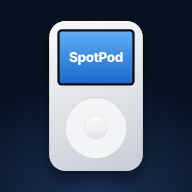
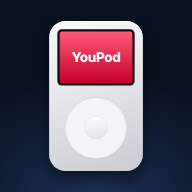
Rename SpotPod to YouPod
Claude-Session: https://claude.ai/code/session_01Q3XB6jUfvSdwdJwMcGZR9M

Changed region(s): [[0.2812, 0.1562, 0.7188, 0.4375]]

diff --git a/index.html b/index.html
@@ -3,13 +3,13 @@
 <head>
 <meta charset="utf-8">
 <meta name="viewport" content="width=device-width, initial-scale=1, viewport-fit=cover">
-<title>SpotPod</title>
-<meta name="description" content="SpotPod: a click-wheel music player for YouTube music.">
+<title>YouPod</title>
+<meta name="description" content="YouPod: a click-wheel music player for YouTube music.">
 <meta name="theme-color" content="#0a1120">
 <meta name="mobile-web-app-capable" content="yes">
 <meta name="apple-mobile-web-app-capable" content="yes">
 <meta name="apple-mobile-web-app-status-bar-style" content="black-translucent">
-<meta name="apple-mobile-web-app-title" content="SpotPod">
+<meta name="apple-mobile-web-app-title" content="YouPod">
 <link rel="manifest" href="manifest.json">
 <link rel="icon" href="icon-192.png" type="image/png">
 <link rel="apple-touch-icon" href="apple-touch-icon.png">
@@ -49,7 +49,7 @@ body {
   place-items: center;
   overflow-x: hidden;
 }
-/* phones: one column. desktops: the SpotPod on the left, its tools on the right */
+/* phones: one column. desktops: the YouPod on the left, its tools on the right */
 .stage { display: flex; flex-direction: column; align-items: center; gap: 18px; position: relative; width: 100%; max-width: 62rem; }
 .side { display: flex; flex-direction: column; align-items: center; gap: 18px; width: 100%; position: relative; z-index: 1; }
 @media (min-width: 860px) and (min-height: 520px) {
@@ -532,7 +532,7 @@ kbd {
 <body>
 <main class="stage" id="stage">
   <div class="glow-layer" aria-hidden="true"><div class="glow" id="glow"></div></div>
-  <h1 class="title">SpotPod <span>· YouTube music, click-wheel style</span></h1>
+  <h1 class="title">YouPod <span>· YouTube music, click-wheel style</span></h1>
 
   <div class="ipod-wrap" id="wrap">
     <div class="ipod" id="ipod" data-body="silver" data-wheel="match">
@@ -540,7 +540,7 @@ kbd {
         <div class="screen" id="screen" aria-live="polite" data-theme="classic" data-hi="blue" data-text="normal">
           <div class="hdr">
             <span class="hdr-state" id="hdrState"></span>
-            <span class="hdr-title" id="hdrTitle">SpotPod</span>
+            <span class="hdr-title" id="hdrTitle">YouPod</span>
             <span class="bat" id="bat"><span id="batPct">100%</span><span class="battery" id="battery"><i id="batFill"></i></span></span>
           </div>
           <div class="view" id="view"></div>
@@ -584,7 +584,7 @@ kbd {
   <section class="panel setup" id="setupPanel" hidden aria-label="Set up YouTube search">
     <b>Set up YouTube search (owner only, one time)</b>
     <ol>
-      <li>Go to <a href="https://console.cloud.google.com/" target="_blank" rel="noopener">console.cloud.google.com</a>, log in with Google and make a new project called <b>SpotPod</b>.</li>
+      <li>Go to <a href="https://console.cloud.google.com/" target="_blank" rel="noopener">console.cloud.google.com</a>, log in with Google and make a new project called <b>YouPod</b>.</li>
       <li>Open <b>APIs &amp; Services → Library</b>, find <b>YouTube Data API v3</b> and click <b>Enable</b>.</li>
       <li>Open <b>APIs &amp; Services → Credentials → Create credentials → API key</b>.</li>
       <li>Click the new key to edit it. Under <b>Application restrictions</b> pick <b>Websites</b> and add <code id="keySite"></code> <button type="button" class="ghost" id="copySite">Copy</button>. Under <b>API restrictions</b> pick <b>YouTube Data API v3</b>. Click <b>Save</b>.</li>
@@ -625,7 +625,7 @@ kbd {
 
   <footer class="credits">
     <p class="made">Created by <em>Aaron</em></p>
-    <p>Music plays through YouTube. YouTube is a trademark of Google LLC. SpotPod isn't made by YouTube, Google or Apple.</p>
+    <p>Music plays through YouTube. YouTube is a trademark of Google LLC. YouPod isn't made by YouTube, Google or Apple.</p>
     <p class="legal"><a href="terms.html">Terms &amp; Privacy</a> · <a href="https://www.youtube.com/t/terms" target="_blank" rel="noopener">YouTube Terms of Service</a> · <a href="https://policies.google.com/privacy" target="_blank" rel="noopener">Google Privacy Policy</a></p>
   </footer>
   </div>
@@ -633,11 +633,11 @@ kbd {
 
 <div class="consent" id="consent" hidden role="dialog" aria-modal="true" aria-labelledby="consentTitle">
   <div class="consent-card">
-    <h2 id="consentTitle">Welcome to SpotPod</h2>
-    <p>SpotPod is a free music player that plays music from <b>YouTube</b>.</p>
+    <h2 id="consentTitle">Welcome to YouPod</h2>
+    <p>YouPod is a free music player that plays music from <b>YouTube</b>.</p>
     <ul>
-      <li>By using SpotPod, you agree to the <a href="https://www.youtube.com/t/terms" target="_blank" rel="noopener">YouTube Terms of Service</a> and to SpotPod's <a href="terms.html" target="_blank" rel="noopener">Terms &amp; Privacy</a>.</li>
-      <li>SpotPod uses YouTube API Services, so the <a href="https://policies.google.com/privacy" target="_blank" rel="noopener">Google Privacy Policy</a> applies too.</li>
+      <li>By using YouPod, you agree to the <a href="https://www.youtube.com/t/terms" target="_blank" rel="noopener">YouTube Terms of Service</a> and to YouPod's <a href="terms.html" target="_blank" rel="noopener">Terms &amp; Privacy</a>.</li>
+      <li>YouPod uses YouTube API Services, so the <a href="https://policies.google.com/privacy" target="_blank" rel="noopener">Google Privacy Policy</a> applies too.</li>
       <li>Your playlists and settings stay in this browser only. YouTube's player may use cookies.</li>
     </ul>
     <button type="button" id="agree">I agree</button>
@@ -686,14 +686,14 @@ function store(key, value) {
    YOUTUBE MUSIC
    Songs play through YouTube's official player. YouTube's rules say the
    video must stay visible (at least 200 × 200 pixels), so it plays on a
-   "TV" next to the SpotPod and the SpotPod is the remote. Search and the
-   Browse charts use the YouTube Data API with SpotPod's API key.
+   "TV" next to the YouPod and the YouPod is the remote. Search and the
+   Browse charts use the YouTube Data API with YouPod's API key.
    ========================================================= */
 const IN_CLAUDE = !!(window.claude && typeof window.claude.use === "function");
 const CAN_PLAY = !IN_CLAUDE;   // claude.ai can't show other websites' players
 const YT_API_KEY = "AIzaSyBCTgmucw9UWVLcB6qGLEYpmq1Zhag9aLg";          // from console.cloud.google.com, locked to this website
 const ytKey = () => YT_API_KEY || String(load("spotpod-yt-key", "") || "");
-// the key only works from SpotPod's own pages, so tell Google the full page address
+// the key only works from YouPod's own pages, so tell Google the full page address
 const YT_FETCH = { referrerPolicy: "no-referrer-when-downgrade" };
 
 // YouTube titles arrive with HTML codes like &amp; – turn them back into text
@@ -729,7 +729,7 @@ function addToPlaylist(i, item) {
   toast(`Added to ${pl.name}`);
 }
 
-// what you've played on SpotPod (For You learns from this)
+// what you've played on YouPod (For You learns from this)
 let history = (Array.isArray(load("spotpod-history", [])) ? load("spotpod-history", []) : []).map(cleanItem).filter(Boolean).slice(0, 60);
 function remember(item) {
   history = [item, ...history.filter(x => x.uri !== item.uri)].slice(0, 60);
@@ -740,8 +740,8 @@ function remember(item) {
    Every search uses part of the key's daily allowance (about 100 searches a
    day for everyone together), so results are saved for 12 hours. */
 async function ytSearch(q, max = 25) {
-  if (!CAN_PLAY) throw { message: "Search works on the SpotPod website, not inside claude.ai." };
-  if (!ytKey()) throw { message: "Search isn't set up yet. SpotPod's owner needs to add a YouTube key in Settings → YouTube Setup." };
+  if (!CAN_PLAY) throw { message: "Search works on the YouPod website, not inside claude.ai." };
+  if (!ytKey()) throw { message: "Search isn't set up yet. YouPod's owner needs to add a YouTube key in Settings → YouTube Setup." };
   const cache = load("spotpod-cache", {}) || {};
   const c = cache[q];
   if (c && Date.now() - c.t < 12 * 3600000 && Array.isArray(c.items)) return c.items.map(cleanItem).filter(Boolean);
@@ -751,7 +751,7 @@ async function ytSearch(q, max = 25) {
   const j = await r.json().catch(() => ({}));
   if (!r.ok) {
     const reason = j.error && j.error.errors && j.error.errors[0] && j.error.errors[0].reason;
-    if (reason === "quotaExceeded" || reason === "dailyLimitExceeded") throw { message: "SpotPod has used up today's YouTube searches. They come back tomorrow." };
+    if (reason === "quotaExceeded" || reason === "dailyLimitExceeded") throw { message: "YouPod has used up today's YouTube searches. They come back tomorrow." };
     if (reason === "keyInvalid" || r.status === 400) throw { message: "The YouTube key isn't working. Check it in Settings → YouTube Setup." };
     if (r.status === 403) throw { message: "YouTube said no (" + (reason || "403") + "). Check the key's website settings." };
     throw { message: "YouTube didn't answer (error " + r.status + ")." };
@@ -777,9 +777,9 @@ const BROWSE = [
 ];
 
 const shuffled = a => { a = a.slice(); for (let i = a.length - 1; i > 0; i--) { const j = Math.floor(Math.random() * (i + 1)); [a[i], a[j]] = [a[j], a[i]]; } return a; };
-// For You: new songs from the artists you play most on SpotPod
+// For You: new songs from the artists you play most on YouPod
 async function mixForYou() {
-  if (!history.length) throw { message: "Play some songs first, so SpotPod can learn what you like." };
+  if (!history.length) throw { message: "Play some songs first, so YouPod can learn what you like." };
   const score = {};
   history.forEach((h, i) => { if (h.by) score[h.by] = (score[h.by] || 0) + (60 - i); });
   const artists = Object.keys(score).sort((a, b) => score[b] - score[a]).slice(0, 3);
@@ -952,7 +952,7 @@ async function refreshSaved() {
 }
 setInterval(refreshSaved, 6 * 3600000);
 
-// Settings → Delete My Data: wipes everything SpotPod saved in this browser
+// Settings → Delete My Data: wipes everything YouPod saved in this browser
 const SAVED_KEYS = ["tackle-ipod", "tackle-ipod-playlists", "tackle-ipod-battery", "tackle-ipod-links", "tackle-ipod-saveto",
   "spotpod-history", "spotpod-cache", "spotpod-agreed", "spotpod-yt-key", "ibpod-spotify", "ibpod-client-id", "ibpod-pkce"];
 function deleteMyData() {
@@ -960,7 +960,7 @@ function deleteMyData() {
   SAVED_KEYS.forEach(k => { try { localStorage.removeItem(k); } catch (e) {} });
   location.reload();
 }
-// SpotPod no longer uses Spotify: remove anything the old version saved
+// YouPod no longer uses Spotify: remove anything the old version saved
 ["ibpod-spotify", "ibpod-client-id", "ibpod-pkce", "tackle-ipod-links", "tackle-ipod-saveto"].forEach(k => { try { localStorage.removeItem(k); } catch (e) {} });
 
 // the first-visit "I agree" box
@@ -974,7 +974,7 @@ $("#agree").addEventListener("click", () => {
   $("#wheel").focus();
 });
 
-/* setup box: SpotPod's YouTube key */
+/* setup box: YouPod's YouTube key */
 $("#keySite").textContent = location.origin + "/*";
 $("#copySite").addEventListener("click", () => {
   navigator.clipboard.writeText(location.origin + "/*").then(() => toast("Copied"), () => {
@@ -1197,7 +1197,7 @@ function render() {
   const v = view();
   const pl = curPl();
   $("#hdrTitle").textContent = {
-    menu: "SpotPod", now: "Now Playing", pls: "Playlists", pl: pl ? pl.name : "Playlist", browse: "Browse YouTube",
+    menu: "YouPod", now: "Now Playing", pls: "Playlists", pl: pl ? pl.name : "Playlist", browse: "Browse YouTube",
     list: NAV.list ? NAV.list.label : "Music", addto: "Add to Playlist", help: "Controls",
     settings: "Settings", ytsetup: "YouTube Setup", foryou: "For You", nowmenu: "Song", find: "Search YouTube", choice: OPTION_TITLES[NAV.choice] || "Settings", about: "About", reset: "Reset Settings", wipe: "Delete My Data",
   }[v];
@@ -1222,7 +1222,7 @@ function render() {
   } else if (v === "now") {
     const it = PLY.current, q = PLY.queue;
     if (!it) html = msgHTML("Nothing playing yet", "Pick something from Search, Browse or your Playlists.");
-    else if (!CAN_PLAY) html = msgHTML("Open the SpotPod website", "Music plays on isgoodtf2.github.io/IBPOD, not inside claude.ai.");
+    else if (!CAN_PLAY) html = msgHTML("Open the YouPod website", "Music plays on isgoodtf2.github.io/IBPOD, not inside claude.ai.");
     else html = `<div class="np">
       <div class="np-count">${q ? `${q.pos + 1} of ${q.order.length} · ${esc(q.name)}` : "YouTube"}${S.shuffle ? " · Shuffle" : ""}</div>
       <div class="np-main"><img class="cover" src="${esc(it.art)}" alt="" onerror="ibpodCoverFail(this)"><div class="np-info"><b>${esc(it.name)}</b><span>${esc(it.by)}</span><span class="meta">YouTube</span></div></div>
@@ -1239,9 +1239,9 @@ function render() {
   } else if (v === "choice") {
     html = listHTML(OPTIONS[NAV.choice].map(o => ({ label: o[1], value: S[NAV.choice] === o[0] ? "✓" : null })), "choice");
   } else if (v === "ytsetup") {
-    html = !CAN_PLAY ? msgHTML("Use the SpotPod website", "Set up YouTube on isgoodtf2.github.io/IBPOD.")
+    html = !CAN_PLAY ? msgHTML("Use the YouPod website", "Set up YouTube on isgoodtf2.github.io/IBPOD.")
       : ytKey() ? msgHTML("YouTube is set up", "Search, Browse and For You are ready.")
-      : msgHTML("One-time setup", "Follow the steps under the SpotPod to add SpotPod's YouTube key.");
+      : msgHTML("One-time setup", "Follow the steps under the YouPod to add YouPod's YouTube key.");
   } else if (v === "foryou") {
     html = listHTML(FOR_YOU.map(f => ({ label: f.label, chev: true })), "foryou");
   } else if (v === "nowmenu") {
@@ -1250,7 +1250,7 @@ function render() {
     const F = NAV.find;
     if (F.loading) html = msgHTML("", "Searching YouTube…", true);
     else if (F.err) html = msgHTML(F.err[0], F.err[1]);
-    else if (!F.items) html = msgHTML("Search YouTube", "Type a song or artist in the search box next to the SpotPod, then press Search.");
+    else if (!F.items) html = msgHTML("Search YouTube", "Type a song or artist in the search box next to the YouPod, then press Search.");
     else if (!F.items.length) html = msgHTML("Nothing found", "Try different words.");
     else html = listHTML(F.items.map(it => ({ label: it.name })), "find");
   } else if (v === "reset") {
@@ -1259,9 +1259,9 @@ function render() {
     html = `<div class="hint-bar">Deletes your playlists, settings and history from this browser.</div>` + listHTML([{ label: "Cancel" }, { label: "Delete everything" }], "wipe");
   } else if (v === "about") {
     html = `<div class="help"><div class="help-inner" style="transform:translateY(${-NAV.help * 18}px)">
-      <p><b>SpotPod</b> · version 4</p>
+      <p><b>YouPod</b> · version 4</p>
       <p>Created by <b>Aaron</b>.</p>
-      <p>Music plays through YouTube. The video plays on the screen next to the SpotPod, and the SpotPod is the remote.</p>
+      <p>Music plays through YouTube. The video plays on the screen next to the YouPod, and the YouPod is the remote.</p>
       <p class="dim">Playlists: ${playlists.length} · Songs played: ${history.length}</p>
       <p class="dim">Your playlists and settings are saved in this browser.</p>
     </div></div>`;
@@ -1270,8 +1270,8 @@ function render() {
       <p><b>Spin the wheel</b> to scroll. <b>Centre button</b> picks. <b>MENU</b> goes back.</p>
       <p><b>⏯</b> plays or pauses. <b>⏮ ⏭</b> move through the list you're playing. <b>Hold</b> them to rewind or fast-forward.</p>
       <p><b>Now Playing:</b> spin the wheel for volume. The centre button opens Rewind, Forward, Scrub, Add to Playlist and Songs Like This.</p>
-      <p><b>The video</b> plays on the screen next to the SpotPod. YouTube's rules say it has to stay visible.</p>
-      <p><b>For You</b> learns from the songs you play on SpotPod.</p>
+      <p><b>The video</b> plays on the screen next to the YouPod. YouTube's rules say it has to stay visible.</p>
+      <p><b>For You</b> learns from the songs you play on YouPod.</p>
       <p><b>Make a playlist:</b> Playlists → + New Playlist, then add songs from Now Playing.</p>
       <p><b>Battery:</b> click the charging port on the bottom edge to plug in or unplug.</p>
       <p class="dim">Playlists and settings save in this browser. Settings → Terms & Privacy explains more, and Settings → Delete My Data wipes them.</p>
@@ -1438,8 +1438,8 @@ function showBattery() {
     $("#deadFill").style.width = Math.max(4, lvl) + "%";
     $("#deadBolt").toggleAttribute("hidden", !BAT.charging);
     $("#deadText").innerHTML = BAT.charging
-      ? `<b>Charging… ${pct}%</b>SpotPod turns on at ${WAKE_AT}%.`
-      : `<b>Battery empty</b>Click the charging port on the bottom of the SpotPod to charge it.`;
+      ? `<b>Charging… ${pct}%</b>YouPod turns on at ${WAKE_AT}%.`
+      : `<b>Battery empty</b>Click the charging port on the bottom of the YouPod to charge it.`;
     $("#hdrState").textContent = "";
     $("#stage").dataset.playing = false;
   }
@@ -1447,12 +1447,12 @@ function showBattery() {
 setInterval(batteryTick, 1000);
 window.addEventListener("pagehide", saveBattery);
 
-/* ---------- the search box under the SpotPod ---------- */
+/* ---------- the search box under the YouPod ---------- */
 $("#findPanel").addEventListener("submit", async e => {
   e.preventDefault();
   const q = $("#findIn").value.trim();
   if (!q) { $("#findMsg").textContent = "Type a song or artist first."; return; }
-  if (BAT.dead) { $("#findMsg").textContent = "The SpotPod's battery is empty. Charge it first."; return; }
+  if (BAT.dead) { $("#findMsg").textContent = "The YouPod's battery is empty. Charge it first."; return; }
   $("#findIn").blur();   // so the arrow keys move through the results
   $("#findMsg").textContent = "";
   const F = NAV.find = { label: "Search", items: null, loading: true, q };
@@ -1555,7 +1555,7 @@ function select() {
     if (it) { playQueue(L.label, L.items, s, false); return; }
   } else if (v === "pls") {
     openPl(s === 0 ? newPlaylist() : s - 1);
-    if (s === 0) toast("New playlist made. Rename it next to the SpotPod.");
+    if (s === 0) toast("New playlist made. Rename it next to the YouPod.");
   } else if (v === "pl") {
     const pl = curPl();
     if (pl && pl.items.length) { playQueue(pl.name, pl.items, s === 0 ? 0 : s - 1, s === 0); return; }

diff --git a/terms.html b/terms.html
@@ -3,15 +3,15 @@
 <head>
 <meta charset="utf-8">
 <meta name="viewport" content="width=device-width, initial-scale=1, viewport-fit=cover">
-<title>SpotPod Terms &amp; Privacy</title>
-<meta name="description" content="The terms of use and privacy policy for SpotPod.">
+<title>YouPod Terms &amp; Privacy</title>
+<meta name="description" content="The terms of use and privacy policy for YouPod.">
 <meta name="theme-color" content="#0a1120">
 <link rel="icon" href="icon-192.png" type="image/png">
 <link rel="preconnect" href="https://fonts.googleapis.com">
 <link rel="preconnect" href="https://fonts.gstatic.com" crossorigin>
 <link rel="stylesheet" href="https://fonts.googleapis.com/css2?family=Albert+Sans:wght@400;600;700&family=Bricolage+Grotesque:opsz,wght@12..96,800&display=swap">
 <style>
-/* Layout: one readable column on SpotPod's night background. */
+/* Layout: one readable column on YouPod's night background. */
 :root {
   --night: #0a1120;
   --night-2: #12203b;
@@ -50,57 +50,57 @@ a:focus-visible { outline: 2px solid var(--ink); outline-offset: 2px; border-rad
 </head>
 <body>
 <main>
-  <a class="back" href="./">← Back to SpotPod</a>
+  <a class="back" href="./">← Back to YouPod</a>
 
   <header>
-    <h1>SpotPod Terms &amp; Privacy</h1>
+    <h1>YouPod Terms &amp; Privacy</h1>
     <p class="updated">Last updated 12 October 2026</p>
   </header>
 
-  <p class="lede">SpotPod is a free, click-wheel music player made by Aaron. It plays music from YouTube. This page explains the rules for using it and what happens to your information. It's written in plain words, so it's quick to read.</p>
+  <p class="lede">YouPod is a free, click-wheel music player made by Aaron. It plays music from YouTube. This page explains the rules for using it and what happens to your information. It's written in plain words, so it's quick to read.</p>
 
   <section aria-labelledby="t-terms">
     <h2 id="t-terms">Terms of use</h2>
     <ul>
-      <li><b>By using SpotPod, you agree to be bound by the <a href="https://www.youtube.com/t/terms" target="_blank" rel="noopener">YouTube Terms of Service</a></b>, because all the music comes from YouTube.</li>
-      <li>SpotPod is <b>free</b>. Nobody is charged to use it or to watch anything in it.</li>
+      <li><b>By using YouPod, you agree to be bound by the <a href="https://www.youtube.com/t/terms" target="_blank" rel="noopener">YouTube Terms of Service</a></b>, because all the music comes from YouTube.</li>
+      <li>YouPod is <b>free</b>. Nobody is charged to use it or to watch anything in it.</li>
       <li>You need to be old enough to use YouTube where you live (in most places that's 13).</li>
-      <li>The music and videos belong to their owners. SpotPod doesn't download, copy or save any videos. It only shows YouTube's own player.</li>
-      <li>SpotPod is a hobby project, provided as it is. It might sometimes break or change.</li>
-      <li>SpotPod isn't made by, or connected to, YouTube, Google or Apple.</li>
+      <li>The music and videos belong to their owners. YouPod doesn't download, copy or save any videos. It only shows YouTube's own player.</li>
+      <li>YouPod is a hobby project, provided as it is. It might sometimes break or change.</li>
+      <li>YouPod isn't made by, or connected to, YouTube, Google or Apple.</li>
     </ul>
   </section>
 
   <section aria-labelledby="t-privacy">
     <h2 id="t-privacy">Privacy policy</h2>
-    <p><b>SpotPod uses YouTube API Services</b>: the YouTube player and YouTube's search. When you use those parts, Google's privacy rules apply too. Read the <a href="https://policies.google.com/privacy" target="_blank" rel="noopener">Google Privacy Policy</a>.</p>
+    <p><b>YouPod uses YouTube API Services</b>: the YouTube player and YouTube's search. When you use those parts, Google's privacy rules apply too. Read the <a href="https://policies.google.com/privacy" target="_blank" rel="noopener">Google Privacy Policy</a>.</p>
   </section>
 
   <section aria-labelledby="t-saved">
-    <h2 id="t-saved">What SpotPod saves</h2>
-    <p>SpotPod has <b>no accounts, no server and no tracking</b>. Everything it remembers is saved <b>only in your own browser</b> on your device. Aaron can't see any of it.</p>
+    <h2 id="t-saved">What YouPod saves</h2>
+    <p>YouPod has <b>no accounts, no server and no tracking</b>. Everything it remembers is saved <b>only in your own browser</b> on your device. Aaron can't see any of it.</p>
     <ul>
       <li>Your settings, like colours, volume and battery level</li>
-      <li>Your SpotPod playlists</li>
+      <li>Your YouPod playlists</li>
       <li>The songs you've played recently (used by For You)</li>
       <li>Recent search results, kept for 12 hours to save YouTube searches</li>
     </ul>
-    <p>Song names you've saved are refreshed from YouTube at least every 30 days. If a song can't be refreshed, SpotPod removes its old name.</p>
+    <p>Song names you've saved are refreshed from YouTube at least every 30 days. If a song can't be refreshed, YouPod removes its old name.</p>
   </section>
 
   <section aria-labelledby="t-shared">
     <h2 id="t-shared">What goes to other companies</h2>
     <ul>
-      <li><b>YouTube / Google:</b> the words you search for, and the videos you play. YouTube's player runs in <b>privacy-enhanced mode</b>, but YouTube may still use cookies or similar technology, and may show ads in its player. SpotPod doesn't add any ads of its own.</li>
-      <li><b>Google Fonts:</b> SpotPod's lettering loads from Google, which can see your device's internet address.</li>
-      <li><b>GitHub:</b> SpotPod's website is hosted on GitHub Pages, which may keep basic visit logs.</li>
+      <li><b>YouTube / Google:</b> the words you search for, and the videos you play. YouTube's player runs in <b>privacy-enhanced mode</b>, but YouTube may still use cookies or similar technology, and may show ads in its player. YouPod doesn't add any ads of its own.</li>
+      <li><b>Google Fonts:</b> YouPod's lettering loads from Google, which can see your device's internet address.</li>
+      <li><b>GitHub:</b> YouPod's website is hosted on GitHub Pages, which may keep basic visit logs.</li>
     </ul>
   </section>
 
   <section aria-labelledby="t-delete">
     <h2 id="t-delete">Deleting your information</h2>
     <ul>
-      <li>On the SpotPod, go to <b>Settings → Delete My Data</b>. That wipes everything SpotPod saved in this browser.</li>
+      <li>On the YouPod, go to <b>Settings → Delete My Data</b>. That wipes everything YouPod saved in this browser.</li>
       <li>Or clear this website's data in your browser's settings.</li>
       <li>To manage what Google keeps, visit <a href="https://myaccount.google.com/" target="_blank" rel="noopener">your Google Account</a>.</li>
     </ul>
@@ -108,10 +108,10 @@ a:focus-visible { outline: 2px solid var(--ink); outline-offset: 2px; border-rad
 
   <section aria-labelledby="t-contact">
     <h2 id="t-contact">Questions</h2>
-    <p>You can ask a question on SpotPod's GitHub page: <a href="https://github.com/IsgoodTF2/IBPOD/issues" target="_blank" rel="noopener">github.com/IsgoodTF2/IBPOD</a>. If these terms change, the date at the top changes too.</p>
+    <p>You can ask a question on YouPod's GitHub page: <a href="https://github.com/IsgoodTF2/IBPOD/issues" target="_blank" rel="noopener">github.com/IsgoodTF2/IBPOD</a>. If these terms change, the date at the top changes too.</p>
   </section>
 
-  <a class="back" href="./">← Back to SpotPod</a>
+  <a class="back" href="./">← Back to YouPod</a>
 </main>
 </body>
 </html>

diff --git a/README.md b/README.md
@@ -1,13 +1,13 @@
-# SpotPod
+# YouPod
 
 A click-wheel music player for YouTube music, in your browser.
 
 **Play it:** https://isgoodtf2.github.io/IBPOD/
 
 - Spin the wheel to scroll, press the centre button to pick, MENU to go back
-- Search YouTube, Browse genre charts and your own SpotPod playlists
+- Search YouTube, Browse genre charts and your own YouPod playlists
 - For You learns from the songs you play
-- The video plays on a screen next to the SpotPod (YouTube's rules say it has to stay visible)
+- The video plays on a screen next to the YouPod (YouTube's rules say it has to stay visible)
 - Shuffle, a battery you charge by clicking the port on the bottom, and lots of Settings
 - Works on phones and computers; add it to your home screen to use it like an app
 
